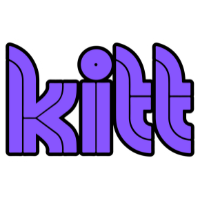
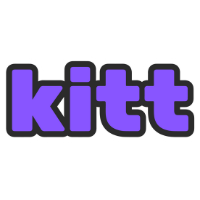
redesign

diff --git a/src/components/footer/Footer.jsx b/src/components/footer/Footer.jsx
@@ -1,6 +1,6 @@
 import React from 'react'
 import './footer.css'
-import pros from '../../assets/service-icon.png'
+import pros from '../../assets/made_squirrel.png'
 import { Flex, Image} from '@chakra-ui/react'
 
 const Footer = () => {
@@ -8,10 +8,8 @@ const Footer = () => {
     <footer>
       <div className="footer__container">
         <Flex justify="space-around" width="100%" padding="5px">
-              <Image src={pros} boxSize="25%" margin="5px" />
+              <Image src={pros} boxSize="8%" margin="5px" />
         </Flex>
-        <h1 className='footer__logo'>Made</h1>
-        <h5>by kitt</h5>
         <div className="footer__copyright">
           <small>&copy; Made, LLC [2019-2023]</small>
         </div>

diff --git a/src/components/navbar/Navbar.jsx b/src/components/navbar/Navbar.jsx
@@ -3,7 +3,7 @@ import Toggle from "../toggle/Toggle"
 import "./navbar.css"
 import Made from "../../assets/made_one.png"
 import Kitt from "../../assets/kitt_one.png"
-import { Image, Link } from '@chakra-ui/react'
+import { Image, Link, Text } from '@chakra-ui/react'
 
 const navbar = () => {
     return (
@@ -15,6 +15,7 @@ const navbar = () => {
             </div>
             {/* right */}
             <div className="n-right">
+                <Text padding={8}><p>by</p></Text>
                 <Link href="https://kitt.one" rel="noreferrer" target='_blank'>
                     <Image src={Kitt} width="80px" height="80px" />
                 </Link>

diff --git a/src/components/cardMade/CardNFT.jsx b/src/components/cardMade/CardNFT.jsx
@@ -2,7 +2,7 @@ import { motion, useMotionValue, useTransform } from "framer-motion"
 import './cards.css'
 import React from "react"
 import styled from "styled-components"
-import MadeImg from "../../assets/made-nft.png"
+import MadeImg from "../../assets/kitt_squirrel_fly.png"
 import { CardDetails } from "./CardDetails"
 
 const CardWrapper = styled.div`

diff --git a/src/components/about/About.jsx b/src/components/about/About.jsx
@@ -4,7 +4,7 @@ import kittMADE from '../../assets/kitt-made.png'
 import {BsFillAwardFill} from 'react-icons/bs'
 import {MdDeveloperMode} from 'react-icons/md'
 import {FaRobot} from 'react-icons/fa'
-import banner from '../../assets/about-standardmade-nft.gif'
+import banner from '../../assets/made_gif.gif'
 
 const About = () => {
   return (

diff --git a/src/App.css b/src/App.css
@@ -20,9 +20,9 @@
 :root {
     --color-bg: #f7c4f5;
     --color-bg-variant: #471b76;
-    --color-primary:#e02599;
+    --color-primary:#9c82ff;
     --color-primary-variant: #F88FCF;
-    --color-purp: #2d0557;
+    --color-purp: #2b2b2b;
     --color-lurp: #aa64f6;
     --color-light: #ede1f9;
     --color-neon: #50EFBD;
